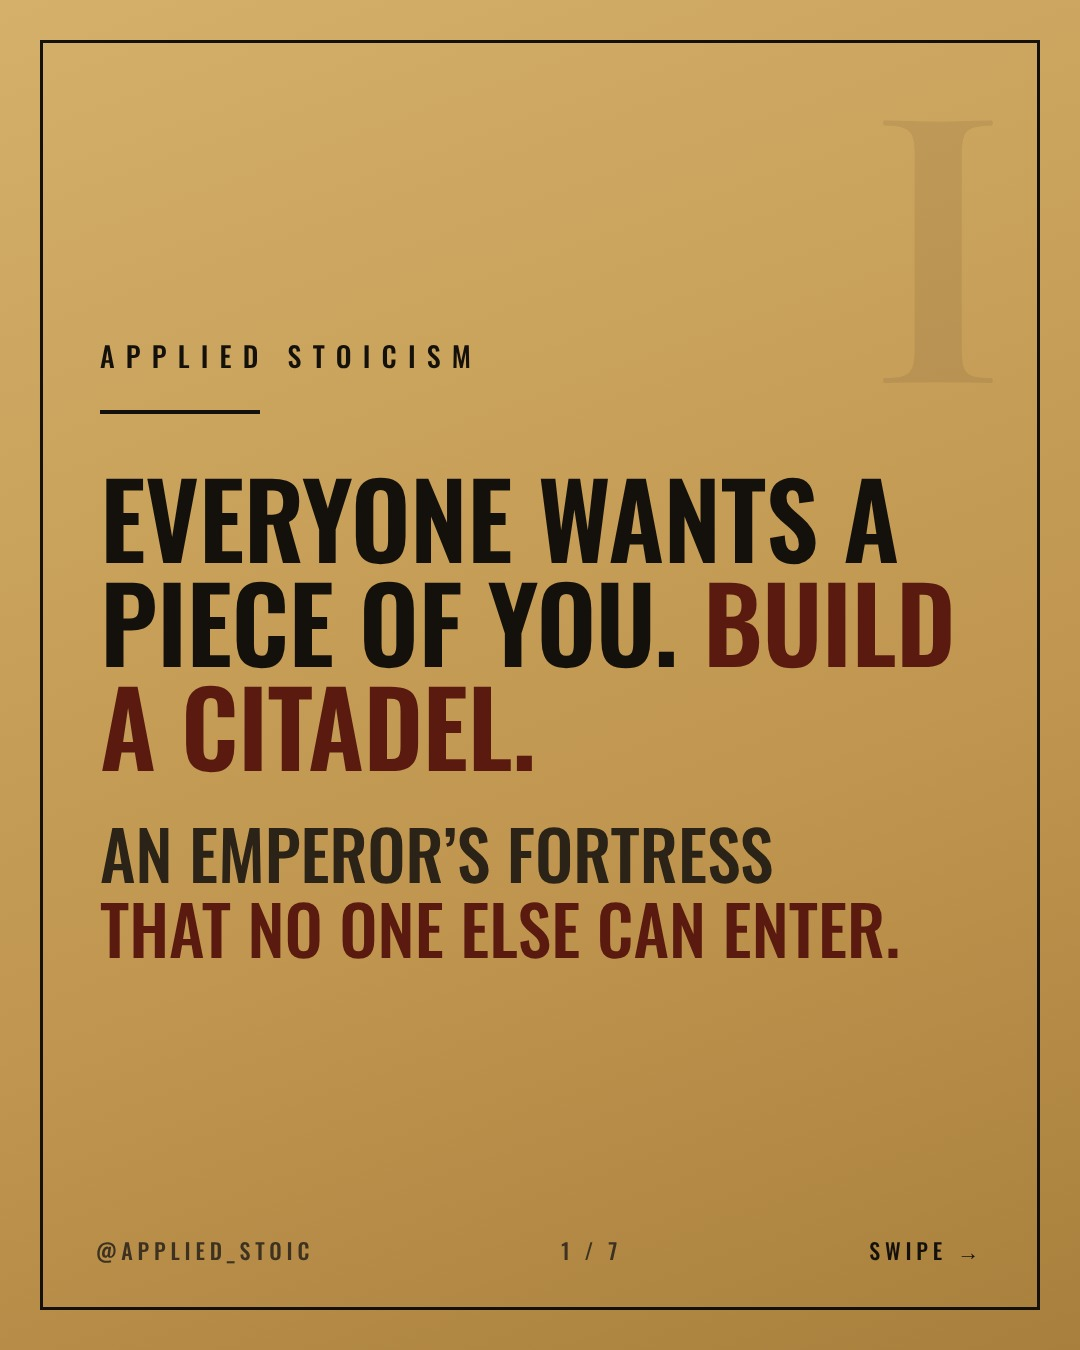
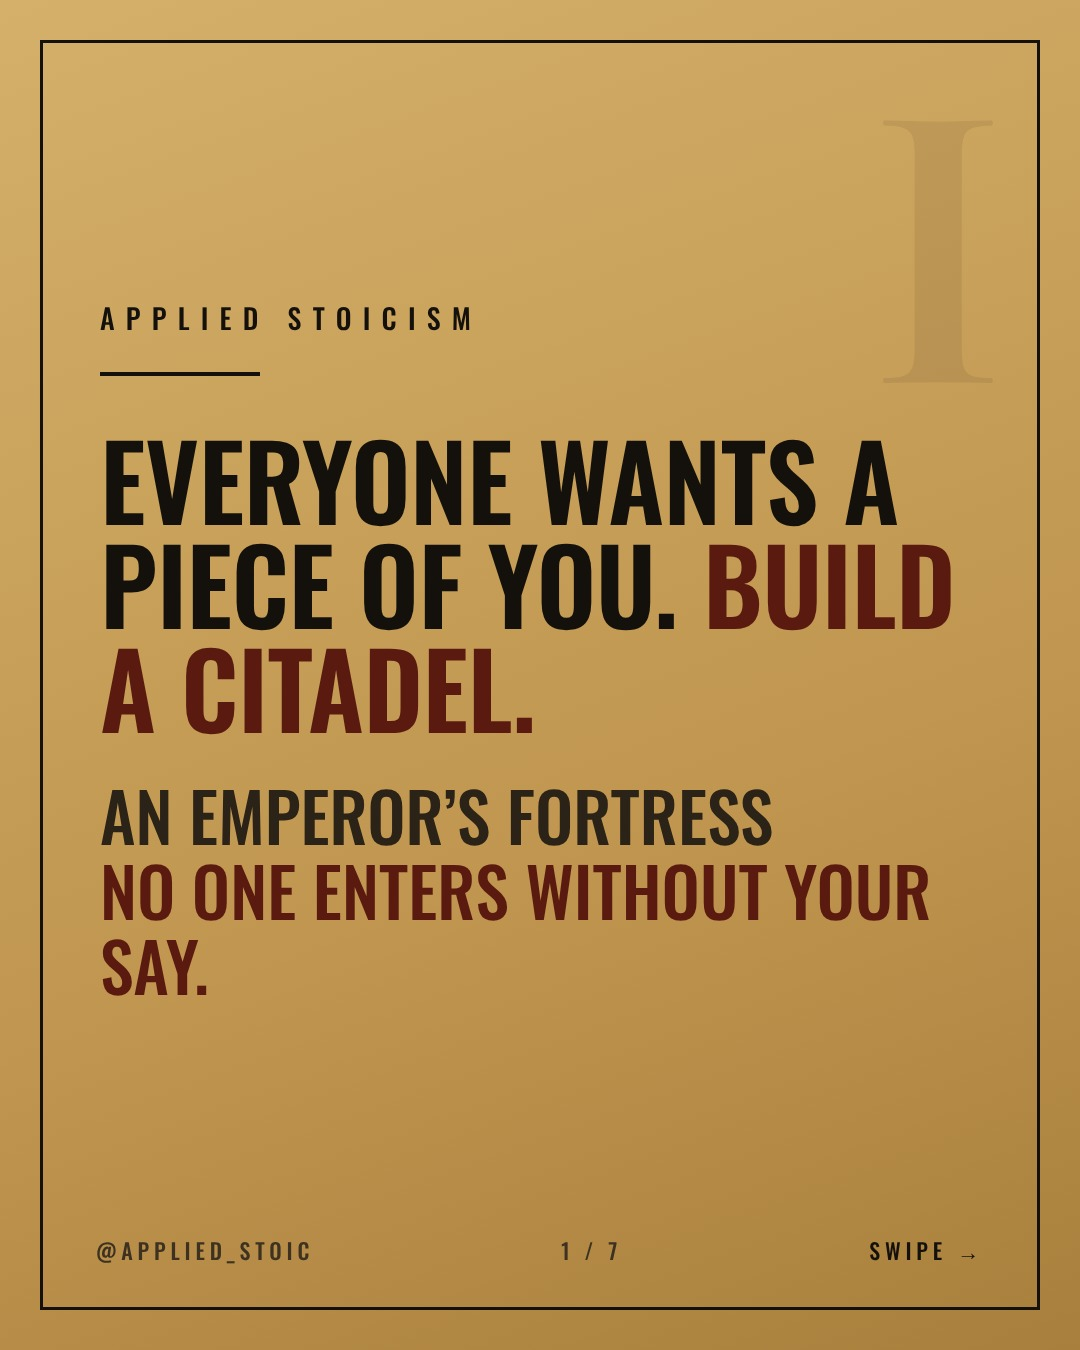
humanizer pass + recheck: applied_stoic 059, dollartrail 058 (VA rates still Dec 1 2025)
Claude-Session: https://claude.ai/code/session_01UBssxEkxwCgCST96h8MSWV

Changed region(s): [[0.0917, 0.3111, 0.8861, 0.7467], [0.0917, 0.2178, 0.3667, 0.28], [0.3972, 0.2178, 0.4583, 0.28]]

diff --git a/posts/applied_stoic/059-inner-citadel.py b/posts/applied_stoic/059-inner-citadel.py
@@ -12,11 +12,11 @@ Source: Marcus Aurelius, Meditations 8.48, tr. George Long.
 #stoicism #marcusaurelius #innerpeace #mindset #resilience #stoic"""
 
 SLIDES = [
-    ('I', '<div class=kick>Applied Stoicism</div><div class=rule></div>\n<div class=hook style="font-size:104px">Everyone wants a piece of you. <em>Build a citadel.</em></div>\n<div class=sub>An emperor&rsquo;s fortress<br><em>that no one else can enter.</em></div>'),
+    ('I', '<div class=kick>Applied Stoicism</div><div class=rule></div>\n<div class=hook style="font-size:104px">Everyone wants a piece of you. <em>Build a citadel.</em></div>\n<div class=sub>An emperor&rsquo;s fortress<br><em>no one enters without your say.</em></div>'),
     ('II', "<div class=kick>Who&rsquo;s talking</div><div class=rule></div>\n<h2>An emperor writing to himself.</h2>\n<p>Marcus Aurelius ruled the Roman Empire from AD 161 to 180.</p>\n<p class=strong>In his private notebook, the <i>Meditations</i>, he described the one place nothing outside could take.</p>"),
     ('III', '<div class=kick>The citadel</div>\n<span class=qm>&ldquo;</span>\n<div class=q style="font-size:62px">Remember that the ruling faculty is invincible, when self-collected it is satisfied with itself, if it does nothing which it does not choose to do&hellip; Therefore the mind which is free from passions is a citadel&hellip;</div>\n<div class=cite>Marcus Aurelius &middot; Meditations 8.48 &middot; tr. George Long</div>'),
-    ('IV', '<div class=kick>Your version</div><div class=rule></div>\n<h2>The inbox, the group chat, the news alert.</h2>\n<p>Each one is knocking on the gate, asking you to get angry, anxious or rushed right now.</p>\n<p class=strong>Marcus&rsquo;s point: they can knock all day. Your mind is unbeatable when it does nothing it does not choose to do.</p>'),
-    ('V', '<div class=kick>The gate</div><div class=rule></div>\n<h2>Walls don&rsquo;t fall. Gates get opened.</h2>\n<p>A citadel isn&rsquo;t a place where nothing happens. It&rsquo;s a place where you decide what gets in.</p>\n<p class=strong>Your &ldquo;ruling faculty&rdquo; is the part of you that judges, chooses and answers. Keep that part self-collected and the noise stays outside.</p>'),
+    ('IV', '<div class=kick>Your version</div><div class=rule></div>\n<h2>The inbox pings. Then the group chat.</h2>\n<p>Each one is knocking on the gate. It wants you upset or rushed, right now.</p>\n<p class=strong>Marcus&rsquo;s point: they can knock all day. Your mind is unbeatable when it does nothing it does not choose to do.</p>'),
+    ('V', '<div class=kick>The gate</div><div class=rule></div>\n<h2>Walls don&rsquo;t fall. Gates get opened.</h2>\n<p>A citadel still gets visitors. You just decide who comes in.</p>\n<p class=strong>Marcus calls the part of you that judges and decides your &ldquo;ruling faculty.&rdquo; Keep it self-collected and the noise stays outside.</p>'),
     ('VI', '<div class=kick>Try it today</div><div class=rule></div>\n<h2>Close the gate for one minute.</h2>\n<ul class=steps>\n<li><span class=n>1</span><span class=t><b>Notice</b> the next thing that demands a reaction.</span></li>\n<li><span class=n>2</span><span class=t><b>Pause</b> and ask: &ldquo;Do I choose to let this in?&rdquo;</span></li>\n<li><span class=n>3</span><span class=t><b>Answer</b> from inside the walls, calm and on your own time.</span></li>\n</ul>'),
     ('VII', '<div class=kick>Remember</div><div class=rule></div>\n<div class=big style="font-size:96px">They can knock.<br><em>You hold the gate.</em></div>\n<div class=cta>Send this to someone<br>who&rsquo;s <em>stretched thin.</em></div>\n' + STOIC_FOLLOW),
 ]

diff --git a/posts/dollartrail/058-veteran-check.py b/posts/dollartrail/058-veteran-check.py
@@ -11,7 +11,7 @@ CAPTION = """Ahead of Veterans Day: a veteran rated 100% disabled, with no depen
 
 Data: U.S. Department of Veterans Affairs, Veteran disability compensation rates (effective Dec. 1, 2025), va.gov; Social Security Administration 2027 COLA fact sheet. Yearly figure: our math.
 
-Did you know how VA ratings translate into dollars?
+Did you know what each VA rating pays?
 
 #veteransday #veterans #va #disability #money #dollartrail"""
 
@@ -30,6 +30,6 @@ SLIDES = [
          "The jump from 90% to 100% is $1,576.28 a month (our math).", BL),
     stop(4, 4, "Social Security&rsquo;s raise", "3.6%", "SOCIAL SECURITY COLA, STARTING WITH DECEMBER 2026 BENEFITS",
          ["VA says it&rsquo;s required by law to match Social Security&rsquo;s cost-of-living raise."],
-         "VA hadn&rsquo;t posted its new rate table as of Nov. 5, 2026.", P),
+         "VA hasn&rsquo;t posted its new rate table yet (checked Nov. 6, 2026).", P),
     '<div class=tag>End of the trail</div>\n<div class=hook style="font-size:86px">10%: $180.42.<br><em>100%: $3,938.58.</em></div>\n<div class=cta>Send this to a veteran<br>who <em>should know their numbers.</em></div>\n<div class=src>' + DT_FOLLOW + '<br><br>Source: U.S. Department of Veterans Affairs, veteran disability compensation rates, effective Dec. 1, 2025 (veteran alone, no dependents), va.gov; Social Security Administration, 2027 COLA fact sheet, ssa.gov. Yearly and difference figures: our math.</div>',
 ]

diff --git a/research/2026-11-06.md b/research/2026-11-06.md
@@ -1,0 +1,14 @@
+# Fri Nov 6, 2026
+
+No new topics researched: both slots post yesterday's built-but-unposted files (applied_stoic 059-inner-citadel, dollartrail 058-veteran-check).
+Their quotes and figures are in research/2026-11-05.md.
+
+## Re-check, Nov 6, 2026 (search-first, WebFetch)
+https://www.va.gov/disability/compensation-rates/veteran-rates/ (page "Last updated: November 2, 2026") still states "Effective December 1, 2025".
+Veteran alone (no dependents), unchanged: 10% 180.42; 20% 356.66; 30% 552.47; 40% 795.84; 50% 1,132.90; 60% 1,435.02; 70% 1,808.45; 80% 2,102.15; 90% 2,362.30; 100% 3,938.58.
+Page note, verbatim: "We're required by law to match the percentage of cost-of-living adjustments made to Social Security benefits."
+Dec. 1, 2026 table still not posted; slide 6 trail note now reads "checked Nov. 6, 2026".
+
+## Humanizer pass (Nov 6)
+059: slide I sub, slides IV and V body rewritten (triplets and a "not X, it's Y" removed). Quote and citation unchanged.
+058: slide 6 trail note date; caption question reworded. No figures changed.
